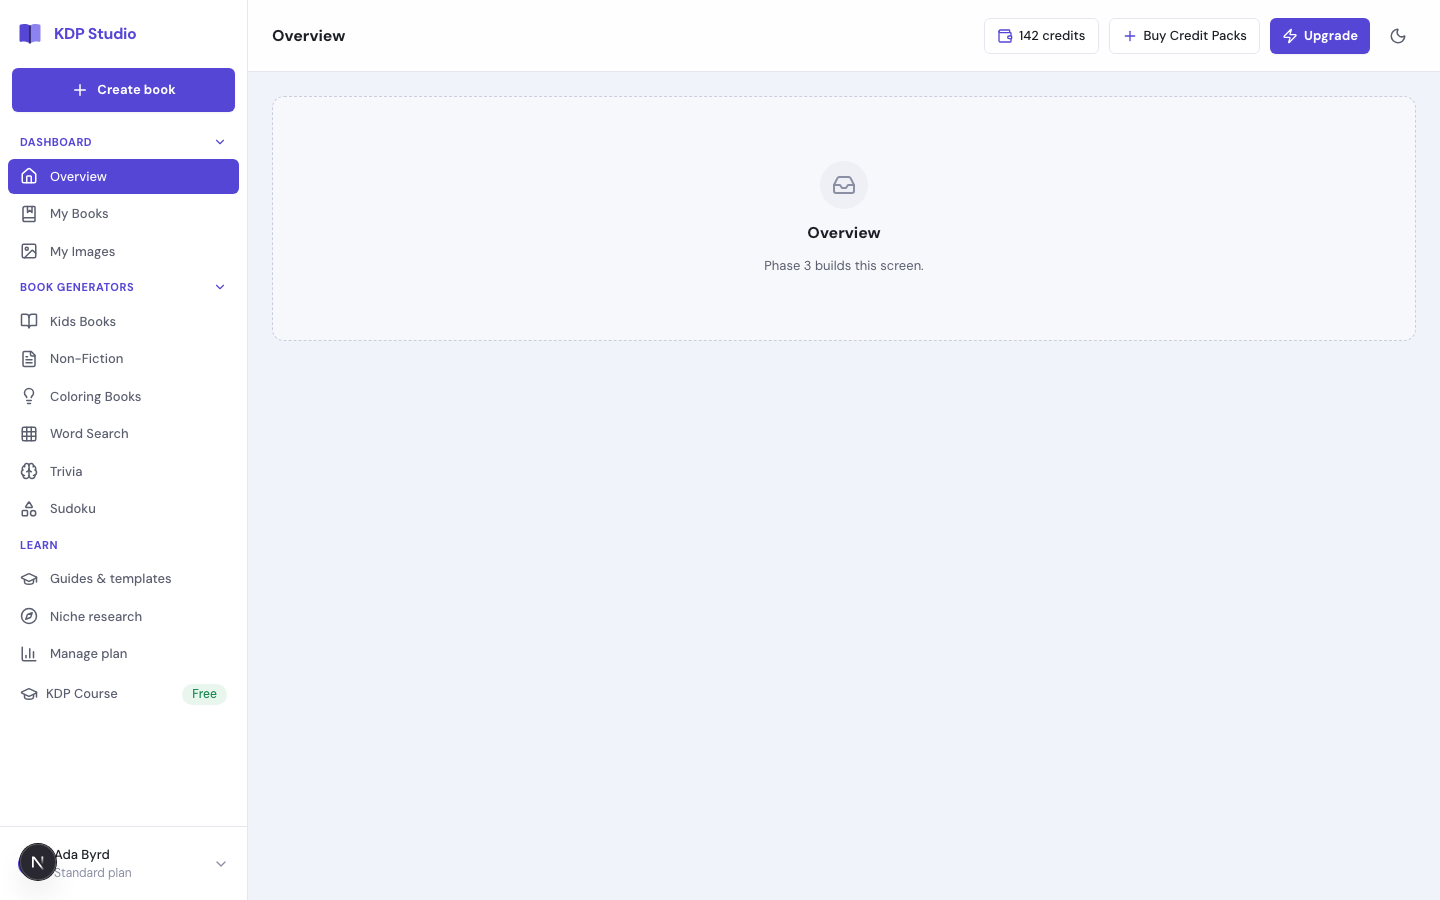
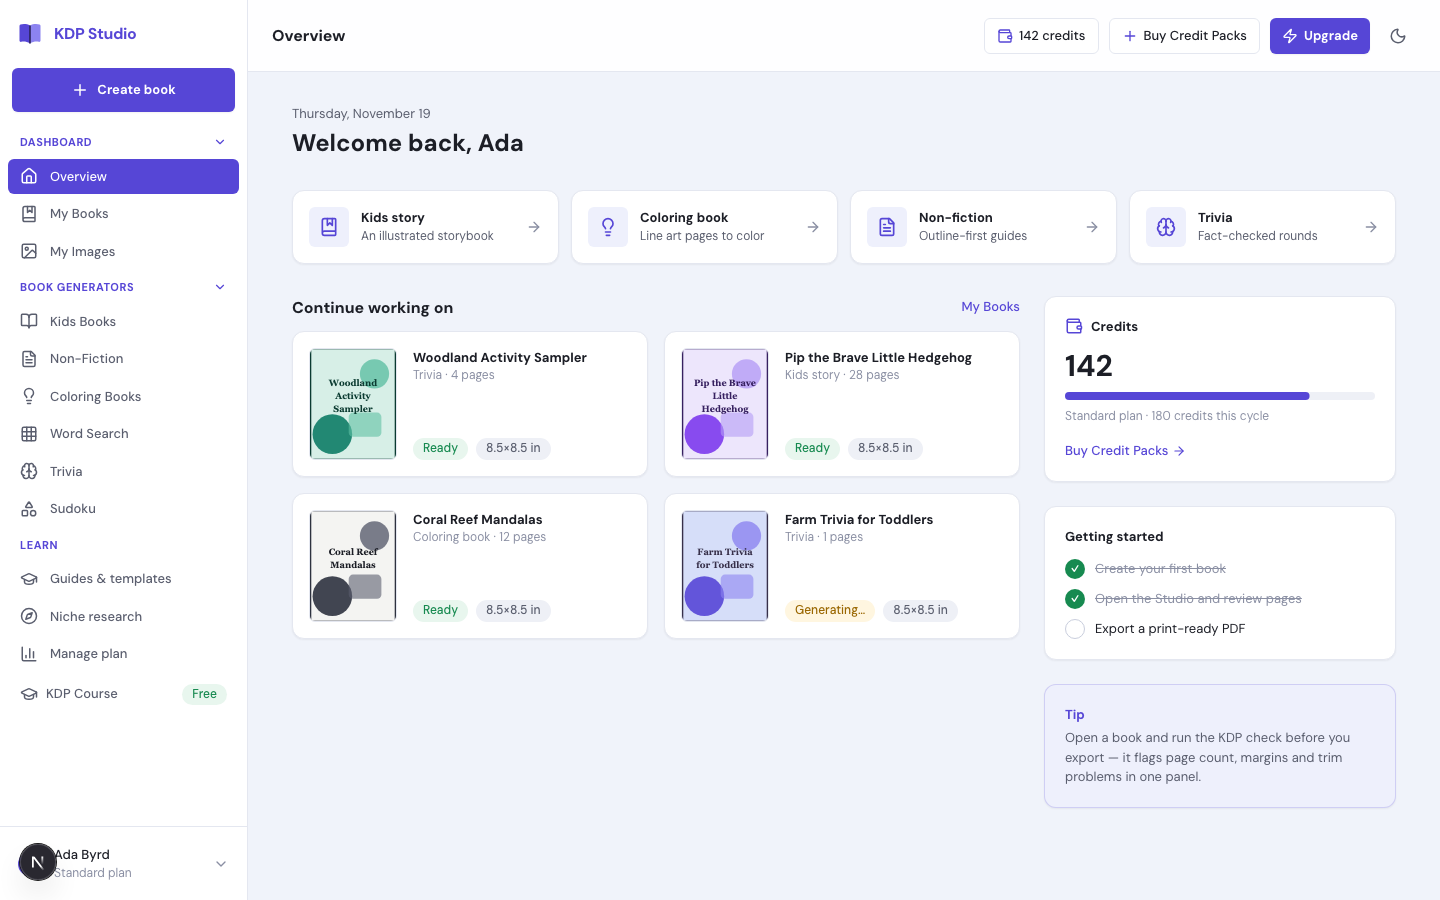
phase-3: dashboard overview (placeholder layout, marked UNOBSERVED)

diff --git a/src/app/(app)/dashboard/page.tsx b/src/app/(app)/dashboard/page.tsx
@@ -1,12 +1,210 @@
-import { Topbar } from "@/components/shell/topbar";
-import { EmptyState } from "@/components/ui";
+"use client";
 
+import { useEffect, useState } from "react";
+import Link from "next/link";
+import {
+  ArrowRight,
+  BookMarked,
+  FileText,
+  Lightbulb,
+  Wallet,
+  Brain,
+} from "lucide-react";
+import { Topbar } from "@/components/shell/topbar";
+import { Badge, Card, Progress, Skeleton } from "@/components/ui";
+import { useApp } from "@/mocks/store";
+import { coverFor } from "@/mocks/data";
+import { BOOK_TYPE_LABEL } from "@/mocks/types";
+
+/** Screen spec: docs/screens/dashboard.md — layout UNOBSERVED in the
+ * reference (dashboard route never appears in official videos); built in the
+ * observed design language as a labeled placeholder. */
 export default function DashboardPage() {
+  const books = useApp((s) => s.books);
+  const user = useApp((s) => s.user);
+  const [loading, setLoading] = useState(true);
+  const [errored] = useState(false);
+
+  useEffect(() => {
+    const t = setTimeout(() => setLoading(false), 500);
+    return () => clearTimeout(t);
+  }, []);
+
+  const recent = books.filter((b) => !b.archived).slice(0, 4);
+  const monthlyAllowance = 180;
+
   return (
     <>
       <Topbar title="Overview" />
-      <div className="p-6">
-        <EmptyState title="Overview" description="Phase 3 builds this screen." />
+      <div className="mx-auto max-w-6xl px-6 py-8">
+        {errored ? (
+          <Card className="border-danger bg-danger-soft p-6">
+            <p className="font-semibold text-danger">Couldn&apos;t load your overview.</p>
+            <p className="mt-1 text-sm text-ink-2">Retry in a moment.</p>
+          </Card>
+        ) : (
+          <>
+            <section aria-labelledby="welcome" className="mb-8">
+              <p className="text-sm text-ink-2">
+                {new Date().toLocaleDateString(undefined, {
+                  weekday: "long",
+                  month: "long",
+                  day: "numeric",
+                })}
+              </p>
+              <h2 id="welcome" className="mt-1 text-2xl font-bold">
+                Welcome back, {user.name.split(" ")[0]}
+              </h2>
+            </section>
+
+            <section aria-label="Quick actions" className="mb-8">
+              <div className="grid gap-3 sm:grid-cols-2 lg:grid-cols-4">
+                {[
+                  { href: "/create/kids-story", label: "Kids story", icon: BookMarked, desc: "An illustrated storybook" },
+                  { href: "/create/coloring", label: "Coloring book", icon: Lightbulb, desc: "Line art pages to color" },
+                  { href: "/create/non-fiction", label: "Non-fiction", icon: FileText, desc: "Outline-first guides" },
+                  { href: "/create/trivia", label: "Trivia", icon: Brain, desc: "Fact-checked rounds" },
+                ].map((a) => (
+                  <Link key={a.href} href={a.href}>
+                    <Card interactive className="flex items-center gap-3 p-4">
+                      <span className="grid size-10 shrink-0 place-items-center rounded-md bg-primary-soft text-primary">
+                        <a.icon className="size-5" aria-hidden />
+                      </span>
+                      <div className="min-w-0">
+                        <p className="text-sm font-semibold">{a.label}</p>
+                        <p className="truncate text-xs text-ink-2">{a.desc}</p>
+                      </div>
+                      <ArrowRight className="ml-auto size-4 text-ink-3" aria-hidden />
+                    </Card>
+                  </Link>
+                ))}
+              </div>
+            </section>
+
+            <div className="grid gap-6 lg:grid-cols-3">
+              <section aria-labelledby="recent" className="lg:col-span-2">
+                <div className="mb-3 flex items-center justify-between">
+                  <h3 id="recent" className="text-lg font-bold">
+                    Continue working on
+                  </h3>
+                  <Link href="/books" className="text-sm font-medium text-primary hover:underline">
+                    My Books
+                  </Link>
+                </div>
+                {loading ? (
+                  <div className="grid gap-4 sm:grid-cols-2">
+                    {Array.from({ length: 4 }).map((_, i) => (
+                      <Skeleton key={i} className="h-44" />
+                    ))}
+                  </div>
+                ) : recent.length === 0 ? (
+                  <Card className="grid place-items-center border-dashed p-10 text-center">
+                    <p className="font-semibold">No books yet</p>
+                    <p className="mt-1 text-sm text-ink-2">
+                      Create your first book — most take a couple of minutes.
+                    </p>
+                    <Link
+                      href="/create"
+                      className="mt-4 inline-flex h-9 items-center rounded-md bg-primary px-4 text-sm font-semibold text-on-primary"
+                    >
+                      Create book
+                    </Link>
+                  </Card>
+                ) : (
+                  <div className="grid gap-4 sm:grid-cols-2">
+                    {recent.map((b) => (
+                      <Link key={b.id} href={`/studio/${b.id}`}>
+                        <Card interactive className="flex gap-4 p-4">
+                          {/* eslint-disable-next-line @next/next/no-img-element */}
+                          <img
+                            src={coverFor(b)}
+                            alt=""
+                            className="h-28 w-22 shrink-0 rounded-md border border-line object-cover"
+                          />
+                          <div className="flex min-w-0 flex-col">
+                            <p className="truncate text-sm font-semibold">{b.title}</p>
+                            <p className="text-xs text-ink-3">
+                              {BOOK_TYPE_LABEL[b.type]} · {b.pages.length} pages
+                            </p>
+                            <div className="mt-auto flex items-center gap-2">
+                              {b.status === "generating" ? (
+                                <Badge tone="warning">Generating…</Badge>
+                              ) : (
+                                <Badge tone="success">Ready</Badge>
+                              )}
+                              <Badge tone="neutral">{b.trim.w}×{b.trim.h} in</Badge>
+                            </div>
+                          </div>
+                        </Card>
+                      </Link>
+                    ))}
+                  </div>
+                )}
+              </section>
+
+              <section aria-labelledby="credits-widget" className="flex flex-col gap-6">
+                <Card className="p-5">
+                  <div className="flex items-center gap-2">
+                    <Wallet className="size-4.5 text-primary" aria-hidden />
+                    <h3 id="credits-widget" className="text-sm font-semibold">
+                      Credits
+                    </h3>
+                  </div>
+                  <p className="mt-3 text-3xl font-bold">{user.credits}</p>
+                  <Progress
+                    value={Math.min(100, (user.credits / monthlyAllowance) * 100)}
+                    className="mt-2"
+                    label="Monthly allowance used"
+                  />
+                  <p className="mt-2 text-xs text-ink-3">
+                    {user.plan} plan · {monthlyAllowance} credits this cycle
+                  </p>
+                  <Link
+                    href="/account/credits"
+                    className="mt-4 inline-flex items-center gap-1 text-sm font-medium text-primary hover:underline"
+                  >
+                    Buy Credit Packs <ArrowRight className="size-3.5" aria-hidden />
+                  </Link>
+                </Card>
+
+                <Card className="p-5">
+                  <h3 className="text-sm font-semibold">Getting started</h3>
+                  <ol className="mt-3 flex flex-col gap-2.5 text-sm">
+                    {[
+                      { done: books.length > 0, label: "Create your first book" },
+                      { done: books.some((b) => b.status === "ready"), label: "Open the Studio and review pages" },
+                      { done: false, label: "Export a print-ready PDF" },
+                    ].map((step) => (
+                      <li key={step.label} className="flex items-center gap-2.5">
+                        <span
+                          aria-hidden
+                          className={`grid size-5 place-items-center rounded-full text-[10px] font-bold ${
+                            step.done
+                              ? "bg-success text-white"
+                              : "border border-line-strong text-ink-3"
+                          }`}
+                        >
+                          {step.done ? "✓" : ""}
+                        </span>
+                        <span className={step.done ? "text-ink-3 line-through" : "text-ink"}>
+                          {step.label}
+                        </span>
+                      </li>
+                    ))}
+                  </ol>
+                </Card>
+
+                <Card className="bg-primary-soft border-primary/20 p-5">
+                  <p className="text-sm font-semibold text-primary">Tip</p>
+                  <p className="mt-1 text-sm text-ink-2">
+                    Open a book and run the KDP check before you export — it flags page
+                    count, margins and trim problems in one panel.
+                  </p>
+                </Card>
+              </section>
+            </div>
+          </>
+        )}
       </div>
     </>
   );

diff --git a/docs/screens/dashboard.md b/docs/screens/dashboard.md
@@ -1,0 +1,9 @@
+# Screen spec — Dashboard / Overview (`/dashboard`)
+
+- **Status:** PLACEHOLDER (layout UNOBSERVED — the reference dashboard never appears in official videos or allowed public pages). Built in the observed design language (F2/F10 chrome, tokens).
+- **Purpose:** landing surface after login; quick re-entry into books + credits visibility.
+- **Regions:** welcome header → quick-action card row (4 generators) → two-column zone (recent books 2×2 | credits widget + getting-started + tip card).
+- **States:** loading (skeletons), error (banner), empty (no books → CTA card).
+- **Interactions:** quick cards → `/create/<flow>`; book cards → `/studio/<id>`; links → /books, /account/credits.
+- **Responsive:** 1-col quick actions < 640; recent grid 1-col < 640, sidebar column stacks < 1024.
+- **UNOBSERVED:** entire layout, widgets, wording; captured items will replace placeholder per capture-checklist P0.

diff --git a/docs/verification/phase-3-dashboard.md b/docs/verification/phase-3-dashboard.md
@@ -1,0 +1,5 @@
+# Phase 3 verification — Dashboard / Overview
+- Build clean, capture `captures/dashboard-1440w.png` console-clean.
+- States: loading (500 ms skeleton) / error banner / empty CTA implemented; default captured.
+- Layout is a **labeled placeholder** (UNOBSERVED) — see docs/screens/dashboard.md.
+- All controls wired: quick cards → create flows, book cards → studio, links → books/credits.
